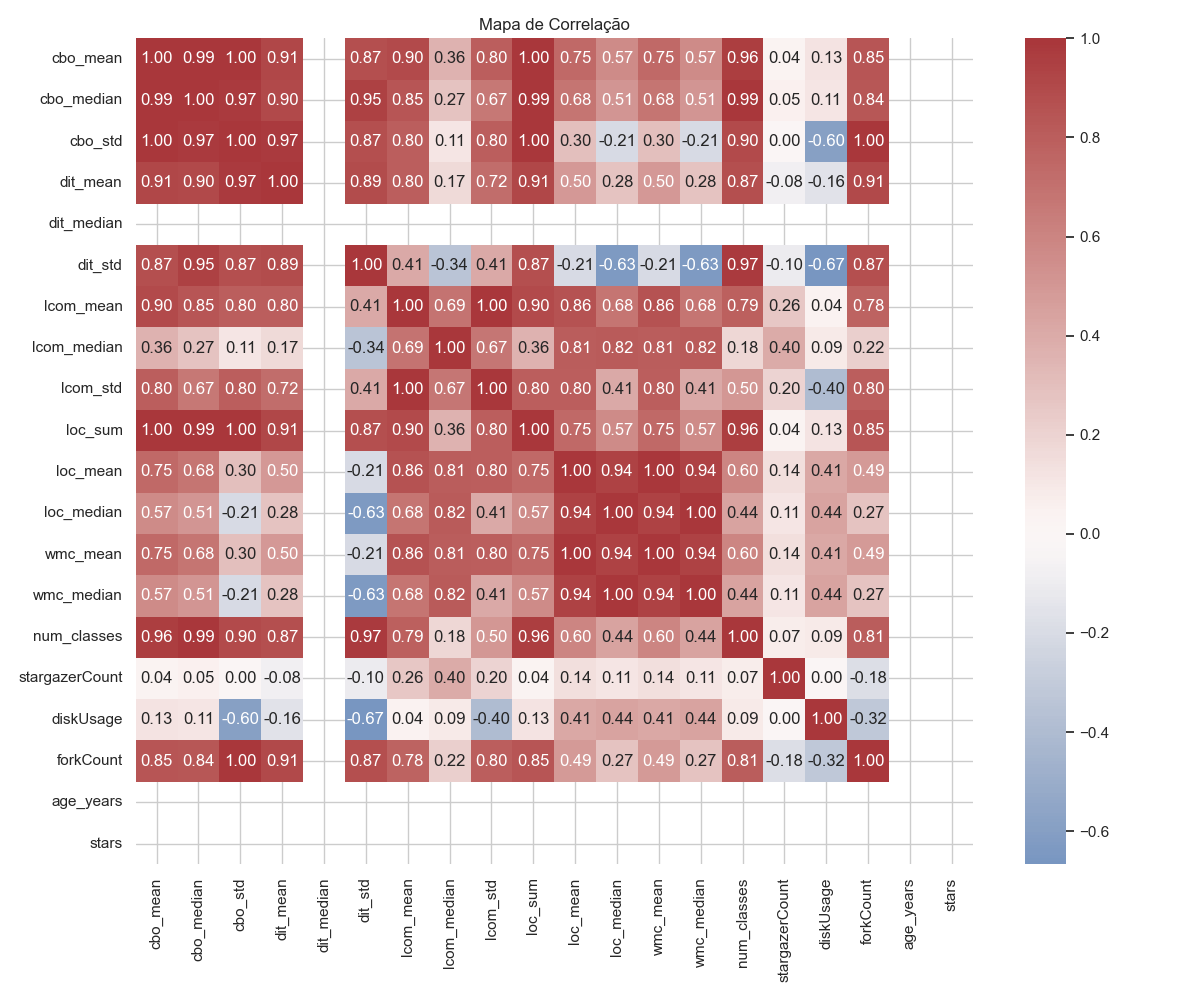
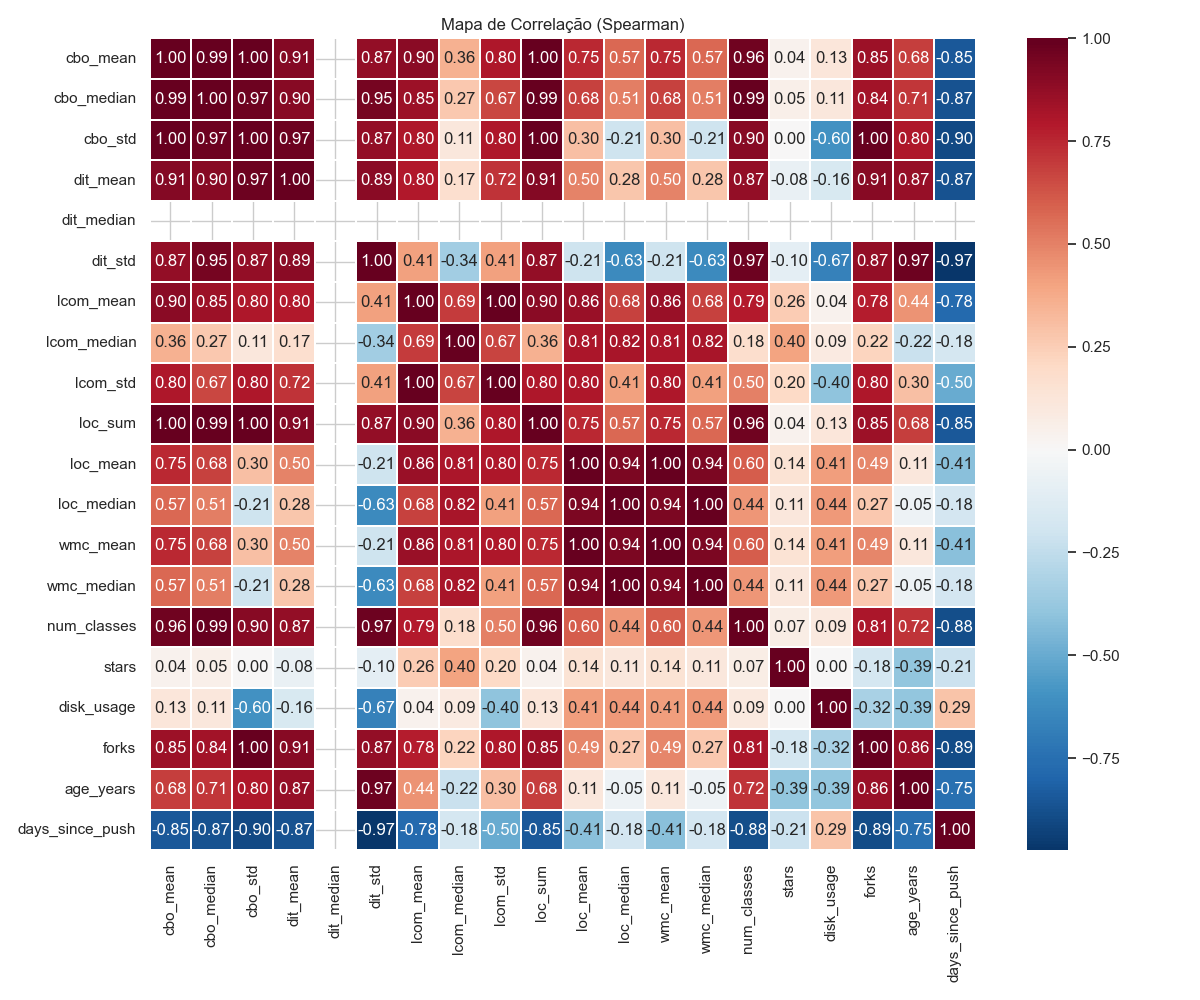
Ajustes: gráficos das RQs

diff --git a/scripts/analyze_data.py b/scripts/analyze_data.py
@@ -14,6 +14,7 @@ TOP1000_CSV = "data/top1000_java_repos.csv"
 RESULTS_DIR = "results"
 REPO_LEVEL_CSV = os.path.join(RESULTS_DIR, "repo_level_metrics.csv")
 STATS_SUMMARY_CSV = os.path.join(RESULTS_DIR, "stats_summary.csv")
+CORR_TESTS_CSV = os.path.join(RESULTS_DIR, "correlation_tests.csv")
 
 def normalize_repo_name(name):
     if pd.isna(name):
@@ -25,8 +26,8 @@ def normalize_repo_name(name):
 
 def compute_age_years(created_at):
     try:
-        dt = pd.to_datetime(created_at)
-        now = pd.Timestamp.now()
+        dt = pd.to_datetime(created_at, utc=True)
+        now = pd.Timestamp.now(tz="UTC")
         delta = now - dt
         return delta.days / 365.25
     except Exception:
@@ -37,7 +38,28 @@ def main():
     df_classes = pd.read_csv(CK_ALL_CSV, low_memory=False)
     df_top = pd.read_csv(TOP1000_CSV, low_memory=False)
 
-    name_cols = [c for c in df_top.columns if c.lower() in ("namewithowner", "name_with_owner", "name")]
+    # Standardize metadata column names so downstream logic works regardless of source naming
+    rename_map = {}
+    for c in df_top.columns:
+        lc = c.lower()
+        if lc == "namewithowner" or lc == "name_with_owner":
+            rename_map[c] = "nameWithOwner"
+        elif lc == "stargazercount" or lc == "stars" or lc == "stargazers" or lc == "stargazer_count":
+            rename_map[c] = "stargazerCount"
+        elif lc == "createdat" or lc == "created_at":
+            rename_map[c] = "createdAt"
+        elif lc == "pushedat" or lc == "pushed_at" or lc == "updatedat" or lc == "updated_at":
+            rename_map[c] = "pushedAt"
+        elif lc == "diskusage" or lc == "disk_usage":
+            rename_map[c] = "diskUsage"
+        elif lc == "forkcount" or lc == "fork_count" or lc == "forks":
+            rename_map[c] = "forkCount"
+        elif lc == "releases" or lc == "releasecount" or lc == "releases_totalcount":
+            rename_map[c] = "releaseCount"
+    if rename_map:
+        df_top = df_top.rename(columns=rename_map)
+
+    name_cols = [c for c in df_top.columns if c.lower() in ("namewithowner", "name_with_owner", "name", "namewithowner") or c == "nameWithOwner"]
     repo_col_top = name_cols[0] if len(name_cols) >= 1 else df_top.columns[0]
     df_top["repo_key"] = df_top[repo_col_top].apply(normalize_repo_name)
 
@@ -82,69 +104,55 @@ def main():
     class_counts = df_classes.groupby("repo_key").size().reset_index(name="num_classes")
     df_agg = df_agg.merge(class_counts, on="repo_key", how="left")
 
-    cand_map = {}
-    for c in df_top.columns:
-        lc = c.lower()
-        if "star" in lc:
-            cand_map["stars"] = c
-        if "created" in lc:
-            cand_map["created_at"] = c
-        if "pushed" in lc or "updated" in lc:
-            cand_map["pushed_at"] = c
-        if "disk" in lc:
-            cand_map["disk_usage"] = c
-        if "fork" in lc:
-            cand_map["forks"] = c
-        if "url" in lc:
-            cand_map["url"] = c
+    # Build a normalized metadata dataframe with canonical columns used downstream
+    df_top_small_cols = {
+        "url": next((c for c in df_top.columns if c.lower() == "url"), None),
+        "stars": "stargazerCount" if "stargazerCount" in df_top.columns else (next((c for c in df_top.columns if "star" in c.lower()), None)),
+        "created_at": "createdAt" if "createdAt" in df_top.columns else (next((c for c in df_top.columns if "created" in c.lower()), None)),
+        "pushed_at": "pushedAt" if "pushedAt" in df_top.columns else (next((c for c in df_top.columns if ("pushed" in c.lower() or "updated" in c.lower())), None)),
+        "disk_usage": "diskUsage" if "diskUsage" in df_top.columns else (next((c for c in df_top.columns if "disk" in c.lower()), None)),
+        "forks": "forkCount" if "forkCount" in df_top.columns else (next((c for c in df_top.columns if "fork" in c.lower()), None)),
+        "releases": "releaseCount" if "releaseCount" in df_top.columns else (next((c for c in df_top.columns if "release" in c.lower()), None)),
+    }
+    keep_cols = [c for c in df_top_small_cols.values() if c is not None]
+    df_top_small = df_top[["repo_key"] + keep_cols].copy()
 
-    df_top_small = df_top[["repo_key"] + [v for v in cand_map.values() if v in df_top.columns]].copy()
+    # Normalize column names to canonical
+    rename_canonical = {v: k for k, v in df_top_small_cols.items() if v is not None}
+    df_top_small = df_top_small.rename(columns=rename_canonical)
 
+    # Derive age and activity proxies
     if "created_at" in df_top_small.columns:
         df_top_small["age_years"] = df_top_small["created_at"].apply(compute_age_years)
     else:
         df_top_small["age_years"] = np.nan
 
+    if "pushed_at" in df_top_small.columns:
+        try:
+            pushed_dt = pd.to_datetime(df_top_small["pushed_at"], utc=True)
+            now_utc = pd.Timestamp.now(tz="UTC")
+            df_top_small["days_since_push"] = (now_utc - pushed_dt) / np.timedelta64(1, 'D')
+        except Exception:
+            df_top_small["days_since_push"] = np.nan
+    else:
+        df_top_small["days_since_push"] = np.nan
+
+    # Types
     if "stars" in df_top_small.columns:
         df_top_small["stars"] = pd.to_numeric(df_top_small["stars"], errors="coerce")
     else:
         df_top_small["stars"] = np.nan
+    if "releases" in df_top_small.columns:
+        df_top_small["releases"] = pd.to_numeric(df_top_small["releases"], errors="coerce")
 
     df_repo = df_agg.merge(df_top_small, on="repo_key", how="left")
     df_repo.to_csv(REPO_LEVEL_CSV, index=False)
     stats = df_repo.describe(include=[np.number]).transpose()
     stats.to_csv(STATS_SUMMARY_CSV)
 
-    if "age_years" in df_repo.columns:
-        plt.figure()
-        sns.histplot(df_repo["age_years"].dropna(), bins=30, kde=False)
-        plt.xlabel("Idade (anos)")
-        plt.title("Distribuição da Idade dos Repositórios")
-        plt.tight_layout()
-        plt.savefig(os.path.join(RESULTS_DIR, "plot_hist_age.png"))
-        plt.close()
-
-    if "stars" in df_repo.columns and df_repo["stars"].notna().sum() > 0:
-        plt.figure()
-        sns.histplot(df_repo["stars"].dropna(), bins=50, log_scale=(False, True))
-        plt.xlabel("Stars")
-        plt.title("Distribuição de Stars")
-        plt.tight_layout()
-        plt.savefig(os.path.join(RESULTS_DIR, "plot_hist_stars.png"))
-        plt.close()
-
+    # RQ01: Popularidade vs Qualidade (Stars vs LCOM)
     if "stars" in df_repo.columns and df_repo["stars"].notna().sum() > 0 and (cols_map["lcom"] + "_median") in df_repo.columns:
-        tmp = df_repo[[cols_map["lcom"] + "_median", "stars"]].dropna()
-        if tmp["stars"].nunique() > 1:
-            tmp["star_quantile"] = pd.qcut(tmp["stars"], q=4, labels=["Q1","Q2","Q3","Q4"], duplicates="drop")
-            plt.figure()
-            sns.boxplot(x="star_quantile", y=cols_map["lcom"] + "_median", data=tmp)
-            plt.xlabel("Quartil de Popularidade (stars)")
-            plt.ylabel("LCOM (mediana)")
-            plt.title("LCOM por Quartil de Popularidade")
-            plt.tight_layout()
-            plt.savefig(os.path.join(RESULTS_DIR, "plot_box_lcom_by_pop.png"))
-            plt.close()
+        pass  # covered by the regression scatter below
 
     if "stars" in df_repo.columns and df_repo["stars"].notna().sum() > 0 and (cols_map["lcom"] + "_median") in df_repo.columns:
         plt.figure()
@@ -157,6 +165,7 @@ def main():
         plt.savefig(os.path.join(RESULTS_DIR, "plot_scatter_stars_vs_lcom.png"))
         plt.close()
 
+    # RQ04: Tamanho vs Qualidade (LOC vs DIT)
     loc_sum_col = cols_map["loc"] + "_sum"
     dit_med_col = cols_map["dit"] + "_median"
     if loc_sum_col in df_repo.columns and dit_med_col in df_repo.columns:
@@ -170,12 +179,85 @@ def main():
         plt.savefig(os.path.join(RESULTS_DIR, "plot_scatter_loc_vs_dit.png"))
         plt.close()
 
+    # RQ02: Maturidade vs Qualidade (Idade vs CBO)
+    cbo_med_col = cols_map["cbo"] + "_median"
+    if "age_years" in df_repo.columns and cbo_med_col in df_repo.columns:
+        plt.figure()
+        sns.regplot(x="age_years", y=cbo_med_col, data=df_repo.dropna(subset=["age_years", cbo_med_col]), scatter_kws={"s": 20}, lowess=True)
+        plt.xlabel("Idade do Repositório (anos)")
+        plt.ylabel("CBO (mediana)")
+        plt.title("Relação entre Idade e CBO")
+        plt.tight_layout()
+        plt.savefig(os.path.join(RESULTS_DIR, "plot_scatter_age_vs_cbo.png"))
+        plt.close()
+
+    # RQ03: Atividade vs Qualidade (Releases vs LCOM, com fallback para recência de push)
+    lcom_med_col = cols_map["lcom"] + "_median"
+    if "releases" in df_repo.columns and df_repo["releases"].notna().sum() > 0 and lcom_med_col in df_repo.columns:
+        plt.figure()
+        sns.regplot(x="releases", y=lcom_med_col, data=df_repo.dropna(subset=["releases", lcom_med_col]), scatter_kws={"s": 20})
+        plt.xlabel("Número de Releases")
+        plt.ylabel("LCOM (mediana)")
+        plt.title("Relação entre Atividade (releases) e LCOM")
+        plt.tightłat()
+        plt.savefig(os.path.join(RESULTS_DIR, "plot_scatter_releases_vs_lcom.png"))
+        plt.close()
+    elif "days_since_push" in df_repo.columns and lcom_med_col in df_repo.columns:
+        plt.figure()
+        sns.regplot(x="days_since_push", y=lcom_med_col, data=df_repo.dropna(subset=["days_since_push", lcom_med_col]), scatter_kws={"s": 20})
+        plt.xlabel("Dias desde o último push")
+        plt.ylabel("LCOM (mediana)")
+        plt.title("Relação entre Recência de Push e LCOM")
+        plt.tight_layout()
+        plt.savefig(os.path.join(RESULTS_DIR, "plot_scatter_days_since_push_vs_lcom.png"))
+        plt.close()
+
+    # Skip general heatmap to keep only required RQ plots
+
+    # Optional: Save correlation tests for key pairs (Spearman and Pearson)
+    try:
+        from scipy.stats import spearmanr, pearsonr
+        tests = []
+        def add_test(x_col, y_col, label):
+            sub = df_repo[[x_col, y_col]].dropna()
+            if len(sub) >= 3 and sub[x_col].nunique() > 1 and sub[y_col].nunique() > 1:
+                s_r, s_p = spearmanr(sub[x_col], sub[y_col])
+                try:
+                    p_r, p_p = pearsonr(sub[x_col], sub[y_col])
+                except Exception:
+                    p_r, p_p = (np.nan, np.nan)
+                tests.append({
+                    "pair": label,
+                    "n": len(sub),
+                    "spearman_r": s_r,
+                    "spearman_p": s_p,
+                    "pearson_r": p_r,
+                    "pearson_p": p_p,
+                })
+
+        if "stars" in df_repo.columns and lcom_med_col in df_repo.columns:
+            add_test("stars", lcom_med_col, "Stars vs LCOM_median")
+        if "age_years" in df_repo.columns and cbo_med_col in df_repo.columns:
+            add_test("age_years", cbo_med_col, "AgeYears vs CBO_median")
+        if "releases" in df_repo.columns and lcom_med_col in df_repo.columns:
+            add_test("releases", lcom_med_col, "Releases vs LCOM_median")
+        elif "days_since_push" in df_repo.columns and lcom_med_col in df_repo.columns:
+            add_test("days_since_push", lcom_med_col, "DaysSincePush vs LCOM_median")
+        if loc_sum_col in df_repo.columns and dit_med_col in df_repo.columns:
+            add_test(loc_sum_col, dit_med_col, "LOC_sum vs DIT_median")
+
+        if tests:
+            pd.DataFrame(tests).to_csv(CORR_TESTS_CSV, index=False)
+    except Exception:
+        pass
+
+    # Spearman correlation heatmap for numeric columns
     num_cols = df_repo.select_dtypes(include=[np.number])
-    if not num_cols.empty:
+    if not num_cols.empty and num_cols.shape[1] > 1:
         corr = num_cols.corr(method="spearman")
         plt.figure(figsize=(12, 10))
-        sns.heatmap(corr, annot=True, fmt=".2f", cmap="vlag", center=0)
-        plt.title("Mapa de Correlação")
+        sns.heatmap(corr, annot=True, fmt=".2f", cmap="RdBu_r", center=0, linewidths=0.3, linecolor="white")
+        plt.title("Mapa de Correlação (Spearman)")
         plt.tight_layout()
         plt.savefig(os.path.join(RESULTS_DIR, "plot_heatmap_correlations.png"))
         plt.close()

diff --git a/scripts/fetch_top1000_java_gql.py b/scripts/fetch_top1000_java_gql.py
@@ -30,6 +30,7 @@ query ($queryString: String!, $first: Int!, $after: String) {
         pushedAt
         diskUsage
         forkCount
+    releases { totalCount }
         primaryLanguage { name }
       }
     }
@@ -63,6 +64,7 @@ def main():
                 "pushedAt": repo.get("pushedAt"),
                 "diskUsage": repo.get("diskUsage"),
                 "forkCount": repo.get("forkCount"),
+                "releaseCount": (repo.get("releases") or {}).get("totalCount"),
                 "primaryLanguage": repo.get("primaryLanguage", {}).get("name")
             })
             if len(collected) >= total_to_collect:
@@ -72,7 +74,7 @@ def main():
             break
         after = page_info["endCursor"]
         time.sleep(1)
-    keys = ["nameWithOwner","url","description","stargazerCount","createdAt","pushedAt","diskUsage","forkCount","primaryLanguage"]
+    keys = ["nameWithOwner","url","description","stargazerCount","createdAt","pushedAt","diskUsage","forkCount","releaseCount","primaryLanguage"]
     os.makedirs("data", exist_ok=True)
     with open("data/top1000_java_repos.csv","w", encoding="utf-8", newline="") as f:
         writer = csv.DictWriter(f, fieldnames=keys)
